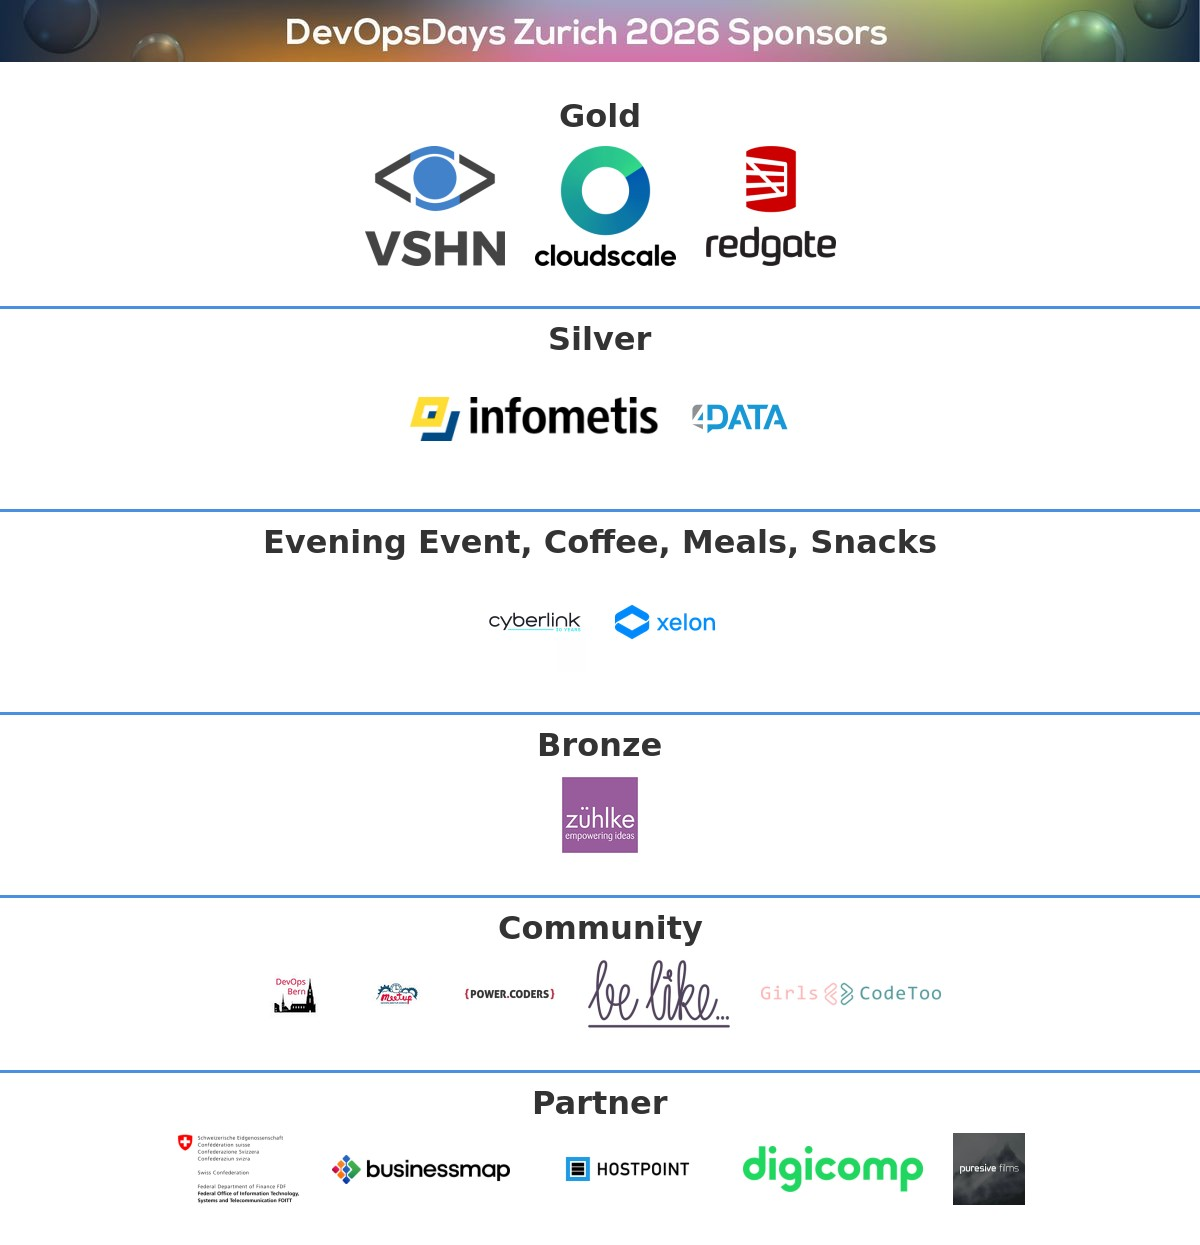
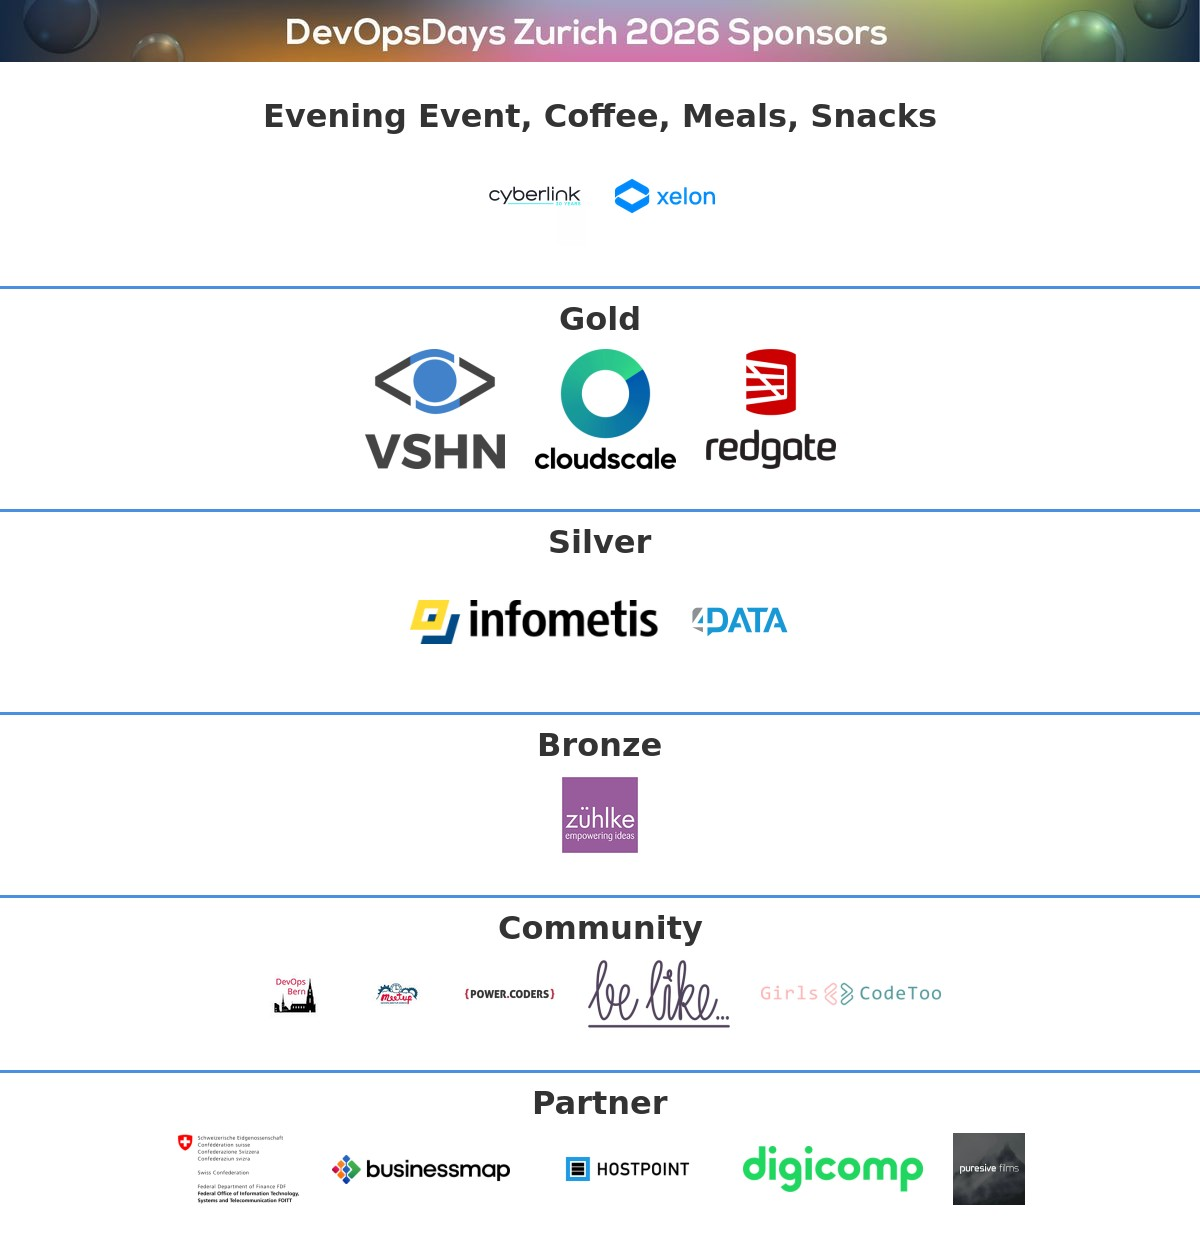
feat: Enhance sponsor grouping logic and update HTML rendering for dynamic sections

Changed region(s): [[0.0, 0.2442, 1.0, 0.3968], [0.2158, 0.061, 0.7708, 0.2137], [0.2158, 0.4273, 0.8017, 0.5189]]

diff --git a/themes/devopsdays/layouts/partials/sponsors.html b/themes/devopsdays/layouts/partials/sponsors.html
@@ -1,9 +1,17 @@
 {{ if .Site.Data.sponsors }}
-{{- /* Build a map of level to package name */ -}}
+{{- /* Build a map of level to package name and group levels by group name */ -}}
 {{- $levelToName := dict -}}
+{{- $groupedLevels := dict -}}
 {{- range .Site.Data.sponsor_packages.packages -}}
 {{- $levelToName = merge $levelToName (dict .level .name) -}}
+{{- if .group -}}
+{{- $existingLevels := index $groupedLevels .group | default slice -}}
+{{- $groupedLevels = merge $groupedLevels (dict .group ($existingLevels | append .level)) -}}
 {{- end -}}
+{{- end -}}
+
+{{- /* Track which levels have been displayed to avoid duplicates */ -}}
+{{- $displayedLevels := slice -}}
 
 <section class="py-8 bg-white">
     <div class="container mx-auto px-4">
@@ -43,48 +51,34 @@
         </div>
         {{ end }}
 
-        <!-- Event Sponsors (grouped: evening, coffee, meal, snack) -->
-        {{- $eventEvening := where .Site.Data.sponsors.sponsors "level" "evening" -}}
-        {{- $eventCoffee := where .Site.Data.sponsors.sponsors "level" "coffee" -}}
-        {{- $eventMeal := where .Site.Data.sponsors.sponsors "level" "meal" -}}
-        {{- $eventSnack := where .Site.Data.sponsors.sponsors "level" "snack" -}}
-        {{- $eventSponsors := slice -}}
-        {{- $eventSponsors = $eventSponsors | append $eventEvening -}}
-        {{- $eventSponsors = $eventSponsors | append $eventCoffee -}}
-        {{- $eventSponsors = $eventSponsors | append $eventMeal -}}
-        {{- $eventSponsors = $eventSponsors | append $eventSnack -}}
-        {{ if or $eventEvening $eventCoffee $eventMeal $eventSnack }}
+        <!-- Grouped Sponsors (dynamically rendered from sponsor_packages.json) -->
+        {{- range $groupName, $levels := $groupedLevels -}}
+        {{- $hasSponsors := false -}}
+        {{- $groupSponsors := slice -}}
+        {{- range $levels -}}
+        {{- $levelSponsors := where $.Site.Data.sponsors.sponsors "level" . -}}
+        {{- if $levelSponsors -}}
+        {{- $hasSponsors = true -}}
+        {{- end -}}
+        {{- end -}}
+        {{ if $hasSponsors }}
         <div class="mb-8">
-            <h4 class="text-lg font-semibold text-center mb-6" style="color: var(--indigo-dye);">Evening Event, Coffee,
-                Meals, Snacks</h4>
+            <h4 class="text-lg font-semibold text-center mb-6" style="color: var(--indigo-dye);">{{ $groupName }}</h4>
             <div class="flex flex-wrap justify-center items-center gap-6" data-sponsor-tier="event">
-                {{ range $eventEvening }}
+                {{- range $levels -}}
+                {{- $levelSponsors := where $.Site.Data.sponsors.sponsors "level" . -}}
+                {{ range $levelSponsors }}
                 <a href="{{ .website }}" target="_blank" rel="noopener" class="block sponsor-logo-container">
                     <img src="{{ .logo }}" alt="{{ .name }}"
                         class="sponsor-logo sponsor-logo-event opacity-75 hover:opacity-100 transition-opacity">
                 </a>
                 {{ end }}
-                {{ range $eventCoffee }}
-                <a href="{{ .website }}" target="_blank" rel="noopener" class="block sponsor-logo-container">
-                    <img src="{{ .logo }}" alt="{{ .name }}"
-                        class="sponsor-logo sponsor-logo-event opacity-75 hover:opacity-100 transition-opacity">
-                </a>
-                {{ end }}
-                {{ range $eventMeal }}
-                <a href="{{ .website }}" target="_blank" rel="noopener" class="block sponsor-logo-container">
-                    <img src="{{ .logo }}" alt="{{ .name }}"
-                        class="sponsor-logo sponsor-logo-event opacity-75 hover:opacity-100 transition-opacity">
-                </a>
-                {{ end }}
-                {{ range $eventSnack }}
-                <a href="{{ .website }}" target="_blank" rel="noopener" class="block sponsor-logo-container">
-                    <img src="{{ .logo }}" alt="{{ .name }}"
-                        class="sponsor-logo sponsor-logo-event opacity-75 hover:opacity-100 transition-opacity">
-                </a>
-                {{ end }}
+                {{- end -}}
             </div>
         </div>
+        {{- $displayedLevels = $displayedLevels | append $levels -}}
         {{ end }}
+        {{- end -}}
 
         <!-- Bronze Sponsors -->
         {{ $bronze := where .Site.Data.sponsors.sponsors "level" "bronze" }}

diff --git a/scripts/generate-sponsor-banner.js b/scripts/generate-sponsor-banner.js
@@ -35,17 +35,7 @@ const CONFIG = {
         bronze: { width: 200, height: 80 },
         partner: { width: 180, height: 72 },
         community: { width: 180, height: 72 }
-    },
-
-    // Section order (titles will be loaded from sponsor_packages.json)
-    sections: [
-        { level: 'gold' },
-        { level: 'silver' },
-        { levels: ['evening', 'coffee', 'meal', 'snack'], title: 'Evening Event, Coffee, Meals, Snacks' },
-        { level: 'bronze' },
-        { level: 'community' },
-        { level: 'partner' }
-    ]
+    }
 };
 
 /**
@@ -54,10 +44,37 @@ const CONFIG = {
 function loadSponsorPackages() {
     const data = JSON.parse(fs.readFileSync(CONFIG.sponsorPackagesDataPath, 'utf8'));
     const levelToName = {};
+    const groupedLevels = {};
+    const sections = [];
+    const processedLevels = new Set();
+
     data.packages.forEach(pkg => {
         levelToName[pkg.level] = pkg.name;
+
+        // Group levels if they have a group field
+        if (pkg.group) {
+            if (!groupedLevels[pkg.group]) {
+                groupedLevels[pkg.group] = [];
+            }
+            groupedLevels[pkg.group].push(pkg.level);
+        }
     });
-    return levelToName;
+
+    // Build sections: groups first, then individual levels
+    // First add groups
+    Object.entries(groupedLevels).forEach(([groupName, levels]) => {
+        sections.push({ levels, title: groupName });
+        levels.forEach(level => processedLevels.add(level));
+    });
+
+    // Then add individual levels that aren't in groups
+    data.packages.forEach(pkg => {
+        if (!processedLevels.has(pkg.level)) {
+            sections.push({ level: pkg.level });
+        }
+    });
+
+    return { levelToName, sections };
 }
 
 /**
@@ -191,7 +208,7 @@ async function generateBanner() {
     // Load sponsors data and package names
     const sponsors = loadSponsors();
     const sponsorsByLevel = groupSponsorsByLevel(sponsors);
-    const levelToName = loadSponsorPackages();
+    const { levelToName, sections } = loadSponsorPackages();
 
     console.log(`📊 Found ${sponsors.length} sponsors across ${Object.keys(sponsorsByLevel).length} levels`);
 
@@ -213,7 +230,7 @@ async function generateBanner() {
     const sectionComposites = [];
     let currentY = headerHeight;
 
-    for (const section of CONFIG.sections) {
+    for (const section of sections) {
         // Handle both single level and grouped levels (for Event Sponsors)
         const levels = section.levels || [section.level];
         const levelSponsors = [];
@@ -313,8 +330,8 @@ async function generateBanner() {
         currentY += sectionHeight;
 
         // Add separator line after section (except for the last section)
-        const isLastSection = CONFIG.sections.indexOf(section) === CONFIG.sections.length - 1 ||
-            CONFIG.sections.slice(CONFIG.sections.indexOf(section) + 1).every(s => {
+        const isLastSection = sections.indexOf(section) === sections.length - 1 ||
+            sections.slice(sections.indexOf(section) + 1).every(s => {
                 const levels = s.levels || [s.level];
                 return levels.every(level => !sponsorsByLevel[level] || sponsorsByLevel[level].length === 0);
             });
